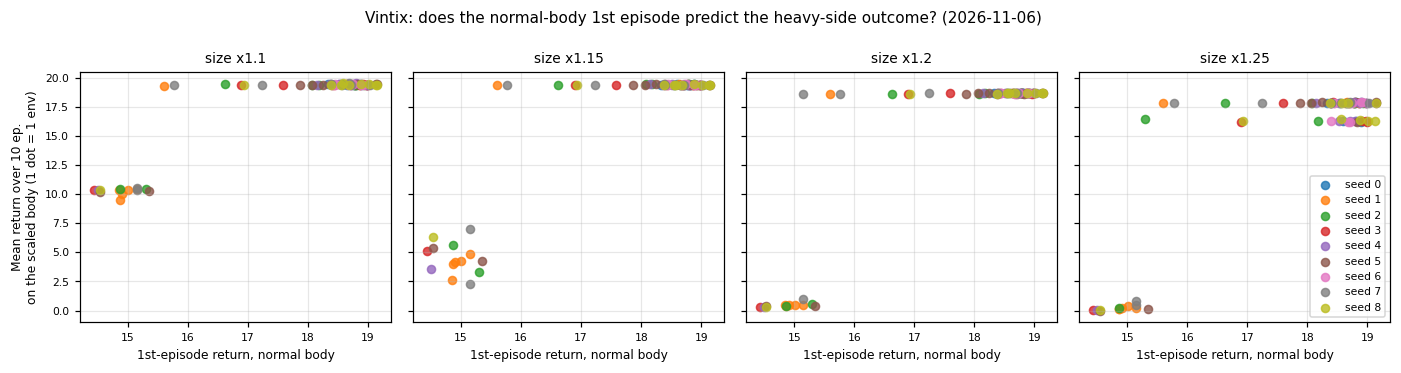
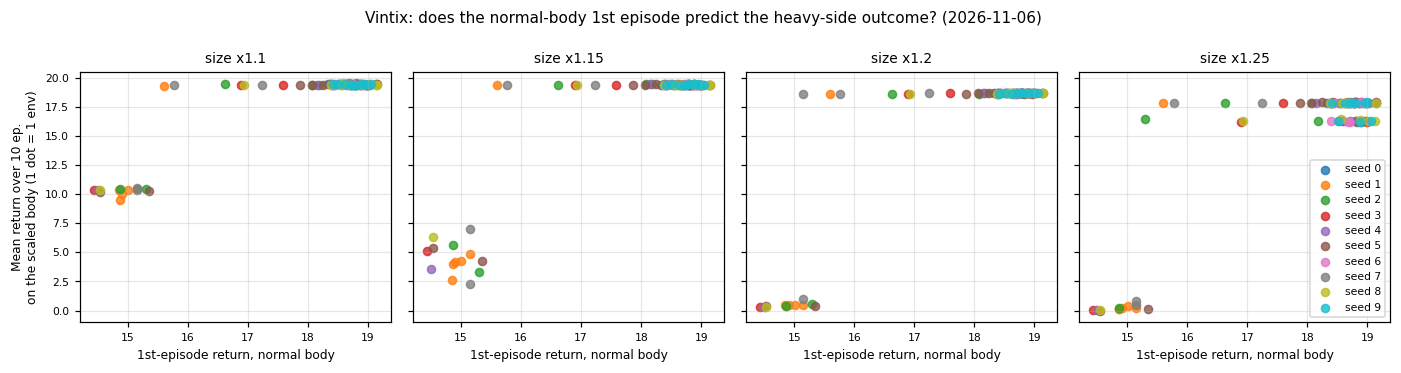
go1_body_scale_zeroshot: size-axis seed 9 matches the pre-registered prediction (no low side; 445/450 by return); boundary grid has 10 seeds on both axes, rewrite REPORT.md for stage 2 (autopilot tick)

diff --git a/vintix_go2/go1_body_scale_zeroshot/REPORT.md b/vintix_go2/go1_body_scale_zeroshot/REPORT.md
@@ -1,86 +1,97 @@
 # Go1 質量・サイズ変化のゼロショット境界 — 実験レポート
 
-> やったこと: Go1 の質量倍率 17 点・大きさ倍率 13 点で Vintix ゼロショットと Go1 PPO 専門家の流用を評価し、報酬曲線を得た
-> これから: 境界付近の細分化、必要なら境界内外での PPO / AD データ作成
+> やったこと: Go1 の質量だけ／大きさだけを変えた改造 Go1 で、Vintix のゼロショットと流用した Go1 PPO 専門家を評価。第 1 段階（60 点 × 1 回）と、第 2 段階の境界付近 26 点 × 10 シード（1 点 1000 エピソード）
+> これから: 体ごとに PPO をゼロから学習して「体そのものが歩けるか」を確認（自動実行中）、残りの点の 10 シード評価。判断待ち: 質量 × 大きさの同時変更（#7）、二極化の原因の切り分け（#8）
 
 ---
 
 ### 概要
 
-Go1 を基準に質量だけ／大きさだけを変えた改造 Go1 で、ISCIIA と同じゼロショット（`go1_without`）がどこまで歩けるかを測った。
-Vintix は質量・大きさともおおむね **0.5〜1.2 倍** で歩ける一方、通常の Go1 PPO 専門家をそのまま載せた場合は **0.7〜1.1 倍** 程度で急に崩れる。
-軽い側・小さい側では Vintix の方が明らかに広い。重い側・大きい側の上限はどちらも約 1.2 倍付近でほぼ揃う。
+重い・大きい側では、流用した専門家は両軸とも **1.1〜1.15 倍**（1.15 倍で完走 38〜51%、1.2 倍で 0%）で崩れ、Vintix は **1.25〜1.3 倍**（1.25 倍で 84〜85%、1.3 倍で 0〜6%）まで歩ける。この上限は 10 シードすべてで動かない。
+ただし境界付近の Vintix は環境ごとに「ずっと歩ける側」と「低い側（専門家と同じ 1.15 倍から崩れる）」に分かれ、低い側に入るのは両軸とも 100 環境中 13 個。どちらに入るかは通常体の 1 本目の報酬でほぼ事前に分かる（事前予測は 450 個中 445 個一致）。
+軽い側は Vintix が質量 0.25 倍でも完走 95% で指令に近い速さで歩けるが、小さい側（大きさ 0.5〜0.7 倍）は転ばないだけで速度が指令の半分以下。
 
 ### 目的
 
-ゼロショットが崩れる境界を、「質量」「大きさ」に分けて数値で把握する。成功／失敗の二値ではなく、倍率ごとの平均エピソード報酬 ± 標準偏差で見る。
+どれくらい体が違うとアルゴリズム蒸留（Vintix）だけではうまく適応できないかを、「質量」「大きさ」に分けて数値で把握する（[#1](https://github.com/ishiishiishii/vintix/issues/1)、[#2](https://github.com/ishiishiishii/vintix/issues/2)）。
 
 ### 方法
 
-- モデル: `models/go1_without/go1_without/0001_epoch`（Go1 未学習）。正規化は既知 3 タスク平均（ISCIIA と同じ）
-- 比較: 通常 Go1 の PPO 専門家 `model_2000.pt` を改造体にそのまま流用
-- 評価: 10 env × 10 ep、最大 1000 step。共通スクリプトは変更せず、実験ディレクトリ内の `ScaledGo1Env` で差し替え
+- モデル: `models/go1_without/go1_without/0001_epoch`（Go1 を学習していない Vintix）を追加学習なしで使う。正規化は既知 3 タスク平均（ISCIIA と同じ）
+- 比較: 通常の Go1 で学習した PPO 専門家 `model_2000.pt` を改造体にそのまま流用
+- 評価: 各点 シード 0〜9 × 10 環境 × 10 エピソード（最大 1000 step）。共通スクリプトは変更せず、実験ディレクトリ内の `ScaledGo1Env` で差し替え。`pipeline.py` で自動実行
 
 ### 実験内容・設定
 
 | 項目 | 値 |
 |------|-----|
-| 質量軸 m | 0.25〜4.0（17 点、総質量 3.3〜52.4 kg） |
-| 大きさ軸 s | 0.5〜2.0（13 点、質量固定 13.1 kg） |
-| 制御・トルク・指令 | Go1 固定（kp=20, kd=0.5, 0.5 m/s） |
-| 大きさ時の高さ目標 | s 倍（初期高さ・base_height・feet_height） |
-| 点数 | 2 方針 × (17+13) = **60 点**（欠落なし） |
+| 質量軸 m | 全リンクの質量と慣性を m 倍。境界付近 0.25, 0.4, 0.5, 0.55, 0.6, 1.0, 1.1, 1.15, 1.2, 1.25, 1.3, 1.35, 1.5 |
+| 大きさ軸 s | 全寸法を s 倍、総質量は 13.1 kg に固定。境界付近 0.5, 0.55, 0.6, 0.65, 0.7, 1.0, 1.1, 1.15, 1.2, 1.25, 1.3, 1.35, 1.5 |
+| 制御・トルク・指令 | Go1 のまま固定（kp=20, kd=0.5, 前進 0.5 m/s） |
+| 指標 | 完走率（1000 step 転倒せずに終わったエピソードの割合）、報酬、前進速度 |
 
 ### 結果
 
-**質量軸（総質量を変える）**
+**完走率（10 シード平均、カッコ内はシードごとの最小〜最大）**
 
-| 倍率 m | 総質量 kg | Vintix 報酬 | Vintix 長さ | Expert 報酬 | Expert 長さ |
-|--------|-----------|-------------|-------------|-------------|-------------|
-| 0.25 | 3.3 | 14.49 ± 1.90 | 978 | 0.14 ± 0.08 | 27 |
-| 0.5 | 6.6 | 16.68 ± 2.42 | 969 | 1.66 ± 1.39 | 119 |
-| 0.7 | 9.2 | 18.47 ± 0.15 | 1000 | 19.65 ± 0.09 | 1000 |
-| 1.0 | 13.1 | 15.14 ± 1.04 | 1000 | 22.28 ± 2.22 | 990 |
-| 1.1 | 14.4 | 17.74 ± 3.41 | 1000 | 19.79 ± 4.02 | 943 |
-| 1.2 | 15.7 | 16.86 ± 5.26 | 917 | 2.97 ± 1.88 | 161 |
-| 1.3 | 17.0 | 2.18 ± 0.84 | 148 | 1.14 ± 0.32 | 73 |
-| 2.0 | 26.2 | 0.17 ± 0.05 | 42 | 0.59 ± 0.07 | 57 |
+| 倍率 | 0.5 | 0.55 | 0.6 | 1.0 | 1.1 | 1.15 | 1.2 | 1.25 | 1.3 |
+|------|-----|------|-----|-----|-----|------|-----|------|-----|
+| Vintix 質量 | 95.5 | 95.3 | 84.5 | 100 | 99.9 | 91.0（65〜100） | 87.0（50〜100） | 83.6（48〜97） | 0 |
+| 専門家 質量 | 0 | 39.2（33〜48） | 96.3 | 99.9 | 96.4 | 50.8（42〜61） | 0 | 0 | 0 |
+| Vintix 大きさ | 75.7※ | 98.0 | 85.4 | 100 | 100 | 93.5（73〜100） | 87.0（50〜100） | 84.6（50〜97） | 5.8（2〜9） |
+| 専門家 大きさ | 0 | 0 | 4.3 | 99.9 | 96.8 | 37.7（27〜44） | 0 | 0 | 0 |
 
-![質量軸の報酬・エピソード長](graphs/mass_scale_zeroshot.png)
-`graphs/mass_scale_zeroshot.png`
+※ 大きさ 0.5 倍の Vintix はシード 9 を評価中のため 9 シード。質量 0.25・0.4 倍の Vintix は 94.6・99.7%、専門家は 0%。
 
-**大きさ軸（寸法のみ、質量固定）**
+![質量軸の完走率と報酬（Vintix は 10 シード平均 ± 標準偏差）](figures/mass_completion_return_20261104.png)
+`figures/mass_completion_return_20261104.png`
 
-| 倍率 s | 太もも cm | Vintix 報酬 | Vintix 長さ | Expert 報酬 | Expert 長さ |
-|--------|-----------|-------------|-------------|-------------|-------------|
-| 0.5 | 10.7 | 8.94 ± 3.60 | 819 | 0.73 ± 0.79 | 61 |
-| 0.7 | 14.9 | 16.41 ± 0.97 | 994 | 19.87 ± 1.92 | 990 |
-| 1.0 | 21.3 | 15.15 ± 1.07 | 1000 | 22.51 ± 0.02 | 1000 |
-| 1.1 | 23.4 | 17.63 ± 3.57 | 1000 | 21.07 ± 2.02 | 987 |
-| 1.2 | 25.6 | 16.86 ± 5.38 | 920 | 2.70 ± 1.14 | 146 |
-| 1.3 | 27.7 | 4.60 ± 5.84 | 311 | 1.16 ± 0.31 | 77 |
-| 2.0 | 42.6 | −1.87 ± 0.45 | 63 | −0.34 ± 1.13 | 102 |
+![大きさ軸の完走率と報酬](figures/size_completion_return_20261104.png)
+`figures/size_completion_return_20261104.png`
 
-![大きさ軸の報酬・エピソード長](graphs/size_scale_zeroshot.png)
-`graphs/size_scale_zeroshot.png`
+**境界付近の Vintix は環境ごとに二極化する**
 
-倍率 1.0 の Vintix は約 15.1 で、ISCIIA の Go1 ゼロショット（15.17）と一致した。
+同じシードの中では、1.15〜1.25 倍のどれでも同じ環境が 10 本すべて転ぶ（または低い報酬で歩く）。低い側（1.2 倍で 2〜10 本目の平均報酬 < 15）に入った環境はシード 0〜9 で質量軸 0/5/2/1/1/1/0/2/1/0 個、大きさ軸 0/5/2/1/1/2/0/1/1/0 個（どちらも 100 個中 13 個）。
+重い側の完走率のシード間のばらつき（1.2 倍で 50〜100%）は、ほぼこの数で決まる。
+
+![Vintix の環境（縦）× エピソード（横）の報酬。上からシード 0〜9。黄色 = 歩けた、紫 = 早く転んだ](figures/vintix_mass_env_modes_20261104.png)
+`figures/vintix_mass_env_modes_20261104.png`（大きさ軸は `figures/vintix_size_env_modes_20261104.png`）
+
+低い側に入るのは、通常体（1.0 倍）の 1 本目の報酬が約 15 の環境（歩ける側は約 18.5）。シード 0〜2 を見て決めた閾値（1 本目 < 15.5）で、重い側の結果が出る前に予測を書き、
+環境 × 倍率（1.15〜1.25 倍）で **450 個中 445 個**が当たった（大きさ軸シード 2〜9、質量軸シード 3〜9）。外れ 5 個はすべて 1 本目 15.15〜15.34 の環境で、この範囲では倍率や軸によって側が入れ替わる。
+
+![通常体の 1 本目の報酬（横）と重い体での 10 本平均（縦）。1 点 = 1 シードの 1 環境](figures/vintix_mass_first_episode_predictor_20261104.png)
+`figures/vintix_mass_first_episode_predictor_20261104.png`
+
+**1.25 倍では歩ける側の環境も 1 本目だけ転ぶことがある**
+
+1.25 倍では歩ける側の環境の約 3 割（質量 87 個中 27 個、大きさ 87 個中 23 個）が 1 本目だけ転び、2 本目からはほぼ完走する（完走率 1 本目 60〜63% → 2〜10 本目 86〜87%）。
+両軸で同じ環境番号になるのは 10 個だけで、無作為の期待値（約 8.5 個）と同程度なので、低い側とは別の現象。1.3 倍では立て直せない。
+
+![エピソード番号ごとの完走率（質量軸、10 シード）](figures/mass_completion_by_episode_20261104.png)
+`figures/mass_completion_by_episode_20261104.png`
+
+**速度（Vintix、10 シード平均）**: 通常体 0.40 m/s、質量 0.25〜0.6 倍 0.42〜0.58 m/s、質量 1.25 倍 0.32 m/s、大きさ 0.5〜0.7 倍 0.16〜0.28 m/s（指令 0.5 m/s）。
 
 ### うまくいかなかったこと → 修正
 
+- 第 1 段階は各点 1 回だけで、境界付近の値（例: 質量 1.2 倍で報酬 16.86 ± 5.26）が評価し直すたびに変わった → シード 0〜9 を固定して 10 回評価する第 2 段階に切り替えた
+- 予測の照合を完走で数えると 1.15 倍で側を分けられなかった（低い側も報酬約 7 で完走することがある）→ 報酬（2〜10 本目の平均 < 15）で数えるよう統一した
 - 当初 `go1_env.py` を直接編集した → 戻し、実験ディレクトリの `ScaledGo1Env` に閉じた
-- URDF 差し替えを関数でラップしたら Genesis の `isinstance` が壊れた → URDF のサブクラスに変更
 
 ### 考察・いま言えること
 
-- **軽い側・小さい側**では Vintix の方が広い（質量 0.25〜0.5、大きさ 0.5〜0.6 でも長く歩く）。転送 PPO はそこではほぼ転倒する
-- **重い側・大きい側**の上限はどちらもおおよそ **1.2 倍**。1.3 倍以降は両方とも崩れる（トルク上限・kp 固定の物理限界に近い）
-- Go2 は質量比約 1.15。質量 1.1〜1.2 の改造 Go1 では Vintix はまだ歩けるので、Go2 ゼロショット失敗の主因は「質量だけ」ではなさそう
+- **歩ける上限は Vintix が専門家より 1 刻み先（1.25〜1.3 倍 対 1.1〜1.15 倍）。10 シード両軸で動かない。** ただし質量 1.25 倍の速度は 0.32 m/s（指令の 6 割強、大きさ 1.25 倍は 0.39 m/s）で、完走だけで「適応できた」とは言えない
+- **Vintix の重い側の成績は「どちらの側に入るか」でほぼ決まる。** 低い側に入った環境は専門家と同じ 1.15 倍から崩れ、10 本の間に抜け出せない。側は通常体の 1 本目の報酬で事前にほぼ分かり、評価で環境ごとに入る乱数は 1 本目の初期のずれだけ（コードで確認）なので、1 本目の動きが文脈に残って歩き方を固定していると考えられる（推測）
+- **軽い側は Vintix が明らかに広い**（質量 0.25 倍で 95%、専門家は 0.5 倍以下で 0%）。小さい側は転ばないだけで速度が足りない
+- **質量と大きさで崩れる倍率がほぼ同じ。** ゲインとトルク上限が固定なので、姿勢を保つトルク（質量 × 脚の長さに比例）で決まっている可能性（未検証、#7）
+- **まだ言えないこと:** 1.3 倍で崩れるのが Vintix の限界か、体そのものが歩けないのか（PPO 待ち）。1 本目の報酬が「なぜ」側を決めるか、1.25 倍の 1 本目だけの転倒が文脈内の適応か（どちらも #8 の対照が必要）。1 本目 15.15〜15.34 の環境が本当の境目なのか数値の偶然なのか
 
 ### 次の予定
 
-- 境界付近（質量・大きさとも 1.15〜1.35 など）の細分化
-- 手が空いたら境界内外での PPO 専門家／AD データ作成（本実験の主スコープ外）
+- 体ごとに PPO を 500 反復ゼロから学習して 10 シード評価（16 点、自動実行中。境界付近の完了後に開始）
+- 残りの点（質量 0.7〜0.9、1.75〜4.0 など）の 10 シード評価（自動実行中）
+- 判断待ち: 質量と大きさを同時に変える検証（#7、約 6 GPU 時間）、二極化の原因の切り分け（#8、約 10 GPU 時間）
 
 ---
 
@@ -90,13 +101,14 @@ Vintix は質量・大きさともおおむね **0.5〜1.2 倍** で歩ける一
 ## 1. 概要
 
 ISCIIA では未知ロボットのゼロショットで Go1 / A1 は歩け、Go2 / Mini Cheetah は転倒した。
-本実験はその「境界」を、Go1 の体パラメータを連続的に動かして測る第一弾である。
+本実験はその「境界」を、Go1 の体パラメータを連続的に動かして測る。第 1 段階で 60 点を 1 回ずつ粗く測り、
+第 2 段階で境界付近 26 点をシード 0〜9 で測った（Issue: #1 目的、#2 刻み・10 シード・PPO、#3 設計の合意、#7・#8 は追加の検証案）。
 
 ## 2. 目的
 
-- 質量軸・大きさ軸それぞれで、Vintix ゼロショットの報酬曲線を得る
-- 転送 Go1 PPO 専門家との比較で、「履歴付き方策の方が広い範囲に効くか」を見る
-- 成功／失敗の二値ではなく、平均 ± 標準偏差で報告する（Notion 合意）
+- 質量軸・大きさ軸それぞれで、Vintix ゼロショットが崩れる倍率を数値で得る
+- 流用した Go1 PPO 専門家との比較で、「履歴付き方策の方が広い範囲に効くか」を見る
+- 成功／失敗の二値ではなく、倍率ごとの平均 ± ばらつきで報告する（Notion 合意）
 
 ## 3. 方法
 
@@ -105,8 +117,10 @@ ISCIIA では未知ロボットのゼロショットで Go1 / A1 は歩け、Go2
 | ファイル | 役割 |
 |----------|------|
 | `scaled_go1_env.py` | 共通 `Go1Env` を継承。URDF scale と `set_mass` で体を変える |
-| `body_scale.py` | 倍率格子と `cfgs.pkl` からの設定生成 |
-| `run_experiment.py` | 1 点 1 サブプロセス。子内だけで `save_vintix.Go1Env` / `save_expert.Go1Env` を差し替え |
+| `body_scale.py` | 倍率格子（`FULL_GRID` / `BOUNDARY_GRID` / `PPO_GRID`）と `cfgs.pkl` からの設定生成 |
+| `run_experiment.py` | 1 点 1 サブプロセス。子内だけで `save_vintix.Go1Env` / `save_expert.Go1Env` を差し替え。PPO 学習ワーカーも持つ |
+| `pipeline.py` | 第 2 段階の自動実行（再開可能、評価 4 本並列） |
+| `make_figures.py` | `figures/` の図（完走率・二極化ヒートマップ・1 本目の散布図・エピソード番号ごとの完走率） |
 
 共通の `go1_env.py` / `save_vintix.py` / `save_expert.py` は変更していない。
 
@@ -114,9 +128,12 @@ ISCIIA では未知ロボットのゼロショットで Go1 / A1 は歩け、Go2
 
 - ベース cfg: `Genesis/logs/go1-walking/cfgs.pkl`（初期高さ 0.40 m、目標高さ 0.32 m）
 - 質量: 全リンク同一倍率（重心位置不変）
-- 大きさ: 質量固定（密度一定の相似拡大は今回はやらない）
+- 大きさ: 質量固定（密度一定の相似拡大はやらない）。初期高さ・目標高さ・足上げ高さだけ s 倍
 - 正規化: 未知タスク既定（既知タスク平均）。対象ロボットの軌跡統計は使わない
-- プローブ: 全点でシミュレータ上の総質量が意図どおりであることを確認済み
+- シード: 評価前に python / numpy / torch / Genesis を固定。同じシードで結果が完全一致することを確認済み
+- 評価の乱数: 環境ごとに入るのは開始時の初期のずれだけで、2 本目以降のリセットはずれなし、行動も決定的（`save_vintix.py` 350〜365 行、`go1_env.py` `reset_idx`）。
+  このため各環境の 10 本は独立な試行ではなく、境界は「シード × 環境」（10 シードで 100 個）の単位で数える
+- 専門家の評価は早く転倒した環境が 10 本を超えて記録されることがある（`save_expert.py`）。集計は各環境の先頭 10 本に絞った
 
 ## 5. 実験ログ
 
@@ -125,43 +142,61 @@ ISCIIA では未知ロボットのゼロショットで Go1 / A1 は歩け、Go2
 - 問題: 過去実験の再現性を損なう
 - 対応: `go1_env.py` を git checkout で戻し、`ScaledGo1Env` に移した
 
-### 実験2: 本番掃引
+### 実験2: 第 1 段階（60 点 × 1 回、シード未固定）
 
-- probe → expert 全点 → vintix 全点（途中で軸別に並列化）
-- 完了: 60 / 60。`results.csv` / `graphs/*.png`
+- 結果: Vintix は質量・大きさともおおむね 0.5〜1.2 倍で歩け、流用した専門家は 0.7〜1.1 倍程度で崩れた。重い・大きい側の上限はどちらも約 1.2 倍に見えた
+- 問題: 各点 1 回だけで、境界付近の値の信頼性が分からない（例: 質量 1.2 倍の Vintix 16.86 ± 5.26）
+- 数値: `results_single_run.csv`、図: `graphs/single_run/`
+
+| 倍率 m | Vintix 報酬 | Expert 報酬 | 倍率 s | Vintix 報酬 | Expert 報酬 |
+|--------|-------------|-------------|--------|-------------|-------------|
+| 0.25 | 14.49 ± 1.90 | 0.14 ± 0.08 | 0.5 | 8.94 ± 3.60 | 0.73 ± 0.79 |
+| 0.5 | 16.68 ± 2.42 | 1.66 ± 1.39 | 0.7 | 16.41 ± 0.97 | 19.87 ± 1.92 |
+| 1.0 | 15.14 ± 1.04 | 22.28 ± 2.22 | 1.0 | 15.15 ± 1.07 | 22.51 ± 0.02 |
+| 1.2 | 16.86 ± 5.26 | 2.97 ± 1.88 | 1.2 | 16.86 ± 5.38 | 2.70 ± 1.14 |
+| 1.3 | 2.18 ± 0.84 | 1.14 ± 0.32 | 1.3 | 4.60 ± 5.84 | 1.16 ± 0.31 |
+
+### 実験3: 第 2 段階の境界付近（26 点 × シード 0〜9）
+
+- 変更点: 刻みを追加（質量 0.55, 1.15, 1.25, 1.35 / 大きさ 0.55, 0.65, 1.15, 1.25, 1.35）、シード 0〜9 で評価
+- 結果: 冒頭の表のとおり。シード 0 の段階で「第 1 段階の両方約 1.2 倍」は刻みが粗かっただけで、専門家 1.15〜1.2 倍、Vintix 1.25〜1.3 倍と分かれた
+- 新しく分かったこと: 境界付近の Vintix は環境ごとに二極化し、シードのぶれの正体はその環境の数。シード 3 以降は通常体の 1 本目から重い側の結果を事前に予測して照合した（経過は README の「実行ログ」）
+- 残課題: 二極化の原因（#8）、上限が体の限界かどうか（PPO）
 
 ## 6. 結果まとめ
 
-全数値は `results.csv`。代表値は冒頭の表。
-粗い読み取り:
-
-| 軸 | Vintix がおおむね歩ける帯 | Expert 転送がおおむね歩ける帯 |
-|----|---------------------------|-------------------------------|
-| 質量 | 約 0.25〜1.2 | 約 0.6〜1.1 |
-| 大きさ | 約 0.5〜1.2 | 約 0.7〜1.1 |
+- 歩ける上限（10 シード両軸で不変）: Vintix 1.25〜1.3 倍、専門家 1.1〜1.15 倍
+- 軽い側: Vintix は質量 0.25 倍まで 95% 完走（専門家は 0.55 倍で 39%、0.5 倍以下 0%）
+- 小さい側: Vintix は 0.5 倍で 76%、0.55〜0.7 倍で 85〜99% だが速度 0.16〜0.28 m/s。専門家は 0.6 倍以下で 0〜4%
+- 低い側に入る環境: 両軸とも 100 個中 13 個。事前予測 450 個中 445 個一致（外れは 1 本目 15.15〜15.34 だけ）
+- 1.25 倍で 1 本目だけ転ぶ環境: 質量 27/87、大きさ 23/87、両軸共通 10 個（期待値 約 8.5）
+- 全数値: `results.csv`（シード付き）、`results_single_run.csv`（第 1 段階）
 
 ## 7. 考察
 
-- 軽い／小さい側の差は文脈内適応の寄与として解釈しやすい
-- 重い／大きい側は制御器とトルク上限を固定しているため、専門家転送も同時に落ちる
-- エピソード 1 と終盤の報酬差（`reward_first_episode_mean` / `reward_last_episode_mean`）は倍率 1.0 付近で Vintix にウォームアップが見える点がある（例: mass 1.0 で 17.9 → 14.8）
+- 上限の差（1 刻み）は小さいが 10 シードで一貫している。ただし Vintix の上限の先の 1.3 倍で崩れるのが方策の限界か体の限界かは、PPO の結果まで切り分けられない
+- 重い側の Vintix の平均値は「低い側の環境の数」の揺れで動くので、シード平均 ± 標準偏差だけで比べると誤解しやすい。環境単位の割合で報告する
+- 低い側を決めるのが初期状態そのものか文脈の始まり方かは、#8 の対照（初期のずれの記録、文脈を切った評価、1 本目もずれなし）で確かめる必要がある
+- 第 1 段階の「質量 1.0 倍で 1 本目 17.9 → 終盤 14.8」も同じ現象の一部で、通常体でも 1 本目の高い報酬は 2 本目から約 14.8 にそろう
 
 ## 8. 今後の予定
 
-1. 境界付近の細分化（例: 1.15, 1.25, 1.35）
-2. （任意）境界内外の PPO / AD データ
+1. PPO を 16 点でゼロから学習して 10 シード評価（`pipeline.py` が境界付近の完了後に自動で開始）
+2. 残りの点の 10 シード評価（自動実行中）
+3. `run_experiment.py` の `collect_rows` の修正（専門家で 10 本を超えた分を除く）と `--stage report` での再集計（パイプライン完了後）
+4. 判断待ち: #7（質量 × 大きさ）、#8（二極化の原因）
 
 ## 9. 成果物パス
 
 | 種類 | パス |
 |------|------|
-| 集計 | `results.csv`, `summary.json` |
-| 図 | `graphs/mass_scale_zeroshot.png`, `graphs/size_scale_zeroshot.png` |
-| 各点 | `results/<policy>/<axis>/s*_r0/` |
+| 集計 | `results.csv`, `summary.json`, `results_single_run.csv` |
+| 図 | `figures/*.png`（第 2 段階）、`graphs/`（`--stage report` の自動図）、`graphs/single_run/`（第 1 段階） |
+| 各点 | `results/<policy>/<axis>/s<倍率>_seed<シード>/` |
 | プローブ | `results/probe/` |
-| ログ | `logs/` |
+| 進捗・ログ | `pipeline_status.json`, `logs/pipeline.log`, `logs/` |
 
 </details>
 
 ---
-Notion: https://app.notion.com/p/Go1-40cd65e6123f81b3be04fe61479b7c70
+Notion: https://app.notion.com/p/40cd65e6123f81b3be04fe61479b7c70
